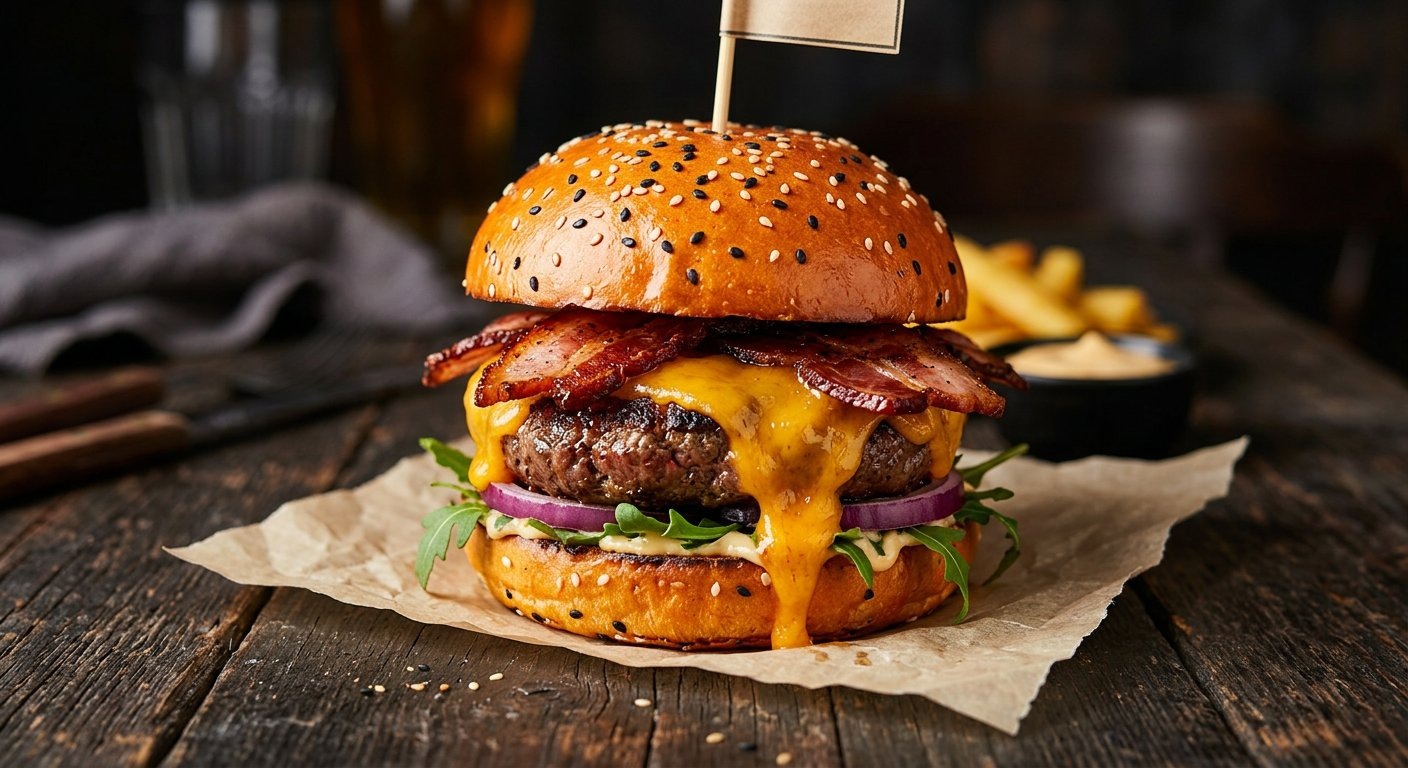
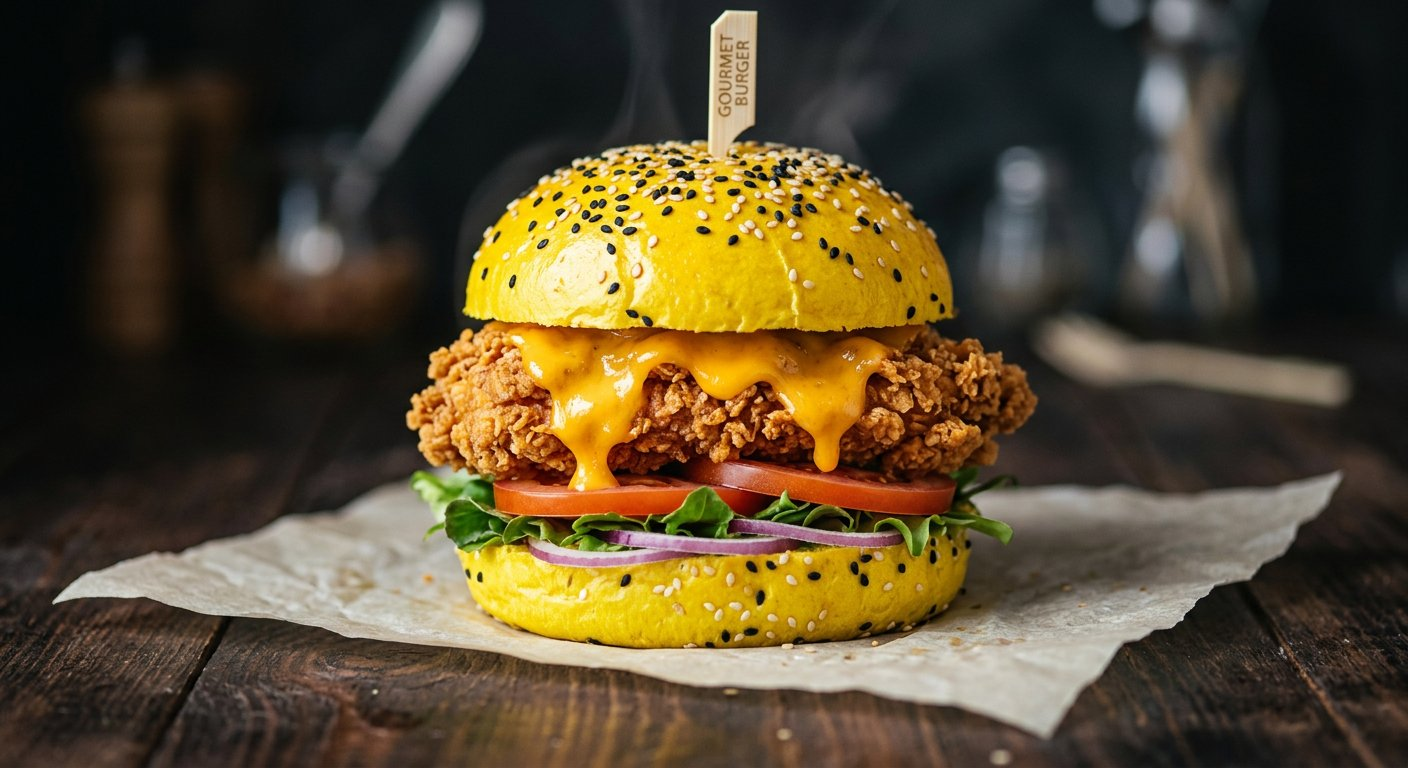
fix(admin): corrige tela preta /admin - AdminApp wrapper completo + ADMIN_NAV, fix AdminCashRegister stray const, fix AdminApp.jsx modular imports, p2/p3 pão amarelo gergelim preto

diff --git a/src/components/admin/AdminApp.jsx b/src/components/admin/AdminApp.jsx
@@ -1,20 +1,82 @@
-import React, { useState, useEffect, useMemo, useRef } from "react";
-import { C, font, STATUS, FLOW, CHANNELS } from "../../constants/theme.js";
-import { brl, elapsed, fmtDT, fmtShort, toLocalInput, fromLocalInput, lastSeen, esc, channelName } from "../../utils/format.js";
-import { api } from "../../utils/api.js";
-import { printHTML, printKitchen, printExpedition, printReceipt, printLabel, printCashSummaryReceipt, printDriverSettlementReceipt, buildGoogleMapsMultiStopUrl, downloadCSV, printReport } from "../../utils/print.js";
-import { getOrderModality } from "../../utils/orderModality.js";
-import { buildMesaIndex, getOrderTableNumber } from "../../utils/mesa.js";
-import { Card, Btn, KPI, BarChart, Donut, StatusPill, SyncBadge, ChannelPill, Badge, Logo, SmartImg } from "../ui/index.jsx";
+import React, { useState } from "react";
+import { C, font } from "../../constants/theme.js";
+import { Card, Btn, Logo } from "../ui/index.jsx";
+import AdminDashboard from "./AdminDashboard.jsx";
+import AdminCashRegister from "./AdminCashRegister.jsx";
+import AdminProducts from "./AdminProducts.jsx";
+import AdminCustomers from "./AdminCustomers.jsx";
+import AdminFinance from "./AdminFinance.jsx";
+import AdminReports from "./AdminReports.jsx";
+import AdminPromos from "./AdminPromos.jsx";
+import AdminCategories from "./AdminCategories.jsx";
+import AdminInventory from "./AdminInventory.jsx";
+import AdminIntegrations from "./AdminIntegrations.jsx";
+import AdminPaymentsCard from "./AdminPaymentsCard.jsx";
+import AdminPrinterCard from "./AdminPrinterCard.jsx";
+import AdminStoreCard from "./AdminStoreCard.jsx";
+import AdminModalitiesCard from "./AdminModalitiesCard.jsx";
 import ServiceChargeCard from "./ServiceChargeCard.jsx";
-import WaiterReport from "./WaiterReport.jsx";
-import LowStockAlerts from "./LowStockAlerts.jsx";
+import AdminTables from "../tables/AdminTables.jsx";
+
+// Fallback components for those not yet modularized
+function AdminOrdersFallback({ store, now }) {
+  const { orders = [] } = store;
+  return (
+    <div className="space-y-3">
+      <div style={{ color: "#8a8a8a", fontSize: 12 }}>{orders.length} pedidos no total</div>
+      <div className="grid md:grid-cols-2 xl:grid-cols-3 gap-3">
+        {orders.slice(0, 20).map((o) => (
+          <Card key={o.id} className="p-3">
+            <div style={{ color: C.white, fontWeight: 800, fontSize: 13 }}>#{o.code} · {o.status}</div>
+            <div style={{ color: "#8a8a8a", fontSize: 11 }}>{o.customer?.name} · {o.total}</div>
+          </Card>
+        ))}
+      </div>
+    </div>
+  );
+}
+
+function AdminUsersFallback({ store }) {
+  return <div style={{ color: "#8a8a8a", fontSize: 12 }}>Usuários gerenciados no App.jsx principal.</div>;
+}
+
+const ADMIN_NAV = [
+  { id: "dashboard", label: "Dashboard", icon: "📊" },
+  { id: "pedidos", label: "Pedidos", icon: "🧾" },
+  { id: "caixa", label: "Caixa / PDV", icon: "💵" },
+  { id: "mesas", label: "Mesas / Salão", icon: "🍽" },
+  { id: "produtos", label: "Produtos", icon: "🍔" },
+  { id: "categorias", label: "Categorias", icon: "📂" },
+  { id: "clientes", label: "Clientes", icon: "👥" },
+  { id: "promos", label: "Promoções", icon: "🏷" },
+  { id: "estoque", label: "Estoque", icon: "📦" },
+  { id: "financeiro", label: "Financeiro", icon: "💰" },
+  { id: "relatorios", label: "Relatórios", icon: "📈" },
+  { id: "integracoes", label: "Integrações", icon: "🔌" },
+  { id: "config", label: "Configurações", icon: "⚙" },
+];
+
+function AdminSettingsModular({ store, now }) {
+  return (
+    <div className="grid lg:grid-cols-2 gap-3">
+      <AdminPaymentsCard store={store} />
+      <AdminPrinterCard store={store} />
+      <AdminStoreCard store={store} />
+      <AdminModalitiesCard store={store} />
+      <ServiceChargeCard store={store} />
+      <Card className="p-4 lg:col-span-2">
+        <div style={{ color: C.white, fontWeight: 900, fontSize: 14 }}>Configurações gerais</div>
+        <div style={{ color: "#8a8a8a", fontSize: 12, marginTop: 4 }}>Gerenciamento completo no App principal.</div>
+      </Card>
+    </div>
+  );
+}
 
 function AdminApp({ store, now }) {
   const [sec, setSec] = useState("dashboard");
   const [menu, setMenu] = useState(false);
   const navItems = ADMIN_NAV.filter((n) => n.id !== "mesas" || store.settings?.tablesEnabled);
-  const title = navItems.find((n) => n.id === sec)?.label || ADMIN_NAV.find((n) => n.id === sec)?.label;
+  const title = navItems.find((n) => n.id === sec)?.label || ADMIN_NAV.find((n) => n.id === sec)?.label || "Admin";
 
   return (
     <div className="flex" style={{ background: C.black, minHeight: "100%" }}>
@@ -68,20 +130,6 @@ function AdminApp({ store, now }) {
               {title.toUpperCase()}
             </h2>
           </div>
-          <div className="flex items-center gap-2">
-            <Btn small variant="dark" onClick={() => store.injectExternal("IFOOD")}>+ Pedido iFood</Btn>
-            <div className="relative">
-              <span style={{ fontSize: 19 }}>🔔</span>
-              {store.notifications.length > 0 && (
-                <span
-                  className="absolute flex items-center justify-center"
-                  style={{ top: -4, right: -6, width: 16, height: 16, borderRadius: 99, background: C.orange, color: C.black, fontSize: 9.5, fontWeight: 900 }}
-                >
-                  {store.notifications.length}
-                </span>
-              )}
-            </div>
-          </div>
         </div>
 
         {menu && (
@@ -100,7 +148,7 @@ function AdminApp({ store, now }) {
         )}
 
         {sec === "dashboard" && <AdminDashboard store={store} now={now} setSec={setSec} />}
-        {sec === "pedidos" && <AdminOrders store={store} now={now} />}
+        {sec === "pedidos" && <AdminOrdersFallback store={store} now={now} />}
         {sec === "caixa" && <AdminCashRegister store={store} now={now} />}
         {sec === "mesas" && (
           store.settings?.tablesEnabled ? (
@@ -124,14 +172,10 @@ function AdminApp({ store, now }) {
         {sec === "financeiro" && <AdminFinance store={store} now={now} />}
         {sec === "relatorios" && <AdminReports store={store} now={now} />}
         {sec === "integracoes" && <AdminIntegrations store={store} />}
-        {sec === "config" && <AdminSettings store={store} now={now} />}
+        {sec === "config" && <AdminSettingsModular store={store} now={now} />}
       </main>
     </div>
   );
 }
-// ============================================================
-// COZINHA — KDS
-// ============================================================
-
 
 export default AdminApp;

diff --git a/src/App.jsx b/src/App.jsx
@@ -3047,6 +3047,54 @@ function AdminPaymentsCard({ store }) {
   );
 }
 
+function AdminPrinterCard({ store }) {
+  return (
+    <React.Suspense fallback={<div style={{ padding: 20, textAlign: 'center', color: '#888' }}>Carregando AdminPrinterCard...</div>}>
+      <AdminPrinterCardModular store={store}  />
+    </React.Suspense>
+  );
+}
+
+function AdminStoreCard({ store }) {
+  return (
+    <React.Suspense fallback={<div style={{ padding: 20, textAlign: 'center', color: '#888' }}>Carregando AdminStoreCard...</div>}>
+      <AdminStoreCardModular store={store}  />
+    </React.Suspense>
+  );
+}
+
+function AdminModalitiesCard({ store }) {
+  return (
+    <React.Suspense fallback={<div style={{ padding: 20, textAlign: 'center', color: '#888' }}>Carregando AdminModalitiesCard...</div>}>
+      <AdminModalitiesCardModular store={store}  />
+    </React.Suspense>
+  );
+}
+
+function AdminCategories({ store }) {
+  return (
+    <React.Suspense fallback={<div style={{ padding: 20, textAlign: 'center', color: '#888' }}>Carregando AdminCategories...</div>}>
+      <AdminCategoriesModular store={store}  />
+    </React.Suspense>
+  );
+}
+
+function AdminInventory({ store }) {
+  return (
+    <React.Suspense fallback={<div style={{ padding: 20, textAlign: 'center', color: '#888' }}>Carregando AdminInventory...</div>}>
+      <AdminInventoryModular store={store}  />
+    </React.Suspense>
+  );
+}
+
+function AdminIntegrations({ store }) {
+  return (
+    <React.Suspense fallback={<div style={{ padding: 20, textAlign: 'center', color: '#888' }}>Carregando AdminIntegrations...</div>}>
+      <AdminIntegrationsModular store={store}  />
+    </React.Suspense>
+  );
+}
+
 function AdminSettings({ store, now }) {
   return (
     <div className="grid lg:grid-cols-2 gap-3">
@@ -3137,6 +3185,96 @@ function AdminCashRegister({ store, now }) {
     <React.Suspense fallback={<div style={{ padding: 20, textAlign: 'center', color: '#888' }}>Carregando AdminCashRegister...</div>}>
       <AdminCashRegisterModular store={store} now={now}  />
     </React.Suspense>
+  );
+}
+
+const ADMIN_NAV = [
+  { id: "dashboard", label: "Dashboard", icon: "📊" },
+  { id: "pedidos", label: "Pedidos", icon: "🧾" },
+  { id: "caixa", label: "Caixa / PDV", icon: "💵" },
+  { id: "mesas", label: "Mesas / Salão", icon: "🍽" },
+  { id: "produtos", label: "Produtos", icon: "🍔" },
+  { id: "categorias", label: "Categorias", icon: "📂" },
+  { id: "clientes", label: "Clientes", icon: "👥" },
+  { id: "promos", label: "Promoções", icon: "🏷" },
+  { id: "estoque", label: "Estoque", icon: "📦" },
+  { id: "financeiro", label: "Financeiro", icon: "💰" },
+  { id: "relatorios", label: "Relatórios", icon: "📈" },
+  { id: "integracoes", label: "Integrações", icon: "🔌" },
+  { id: "config", label: "Configurações", icon: "⚙" },
+];
+
+function AdminApp({ store, now }) {
+  const [sec, setSec] = useState("dashboard");
+  const render = () => {
+    if (sec === "dashboard") return <AdminDashboard store={store} now={now} setSec={setSec} />;
+    if (sec === "pedidos") return <AdminOrders store={store} now={now} />;
+    if (sec === "caixa") return <AdminCashRegister store={store} now={now} />;
+    if (sec === "mesas") return <AdminTables store={store} now={now} />;
+    if (sec === "produtos") return <AdminProducts store={store} />;
+    if (sec === "categorias") return <AdminCategories store={store} />;
+    if (sec === "clientes") return <AdminCustomers store={store} />;
+    if (sec === "promos") return <AdminPromos store={store} now={now} />;
+    if (sec === "estoque") return <AdminInventory store={store} />;
+    if (sec === "financeiro") return <AdminFinance store={store} now={now} />;
+    if (sec === "relatorios") return <AdminReports store={store} now={now} />;
+    if (sec === "integracoes") return <AdminIntegrations store={store} />;
+    if (sec === "config") return <AdminSettings store={store} now={now} />;
+    return null;
+  };
+  return (
+    <div className="min-h-screen flex flex-col lg:flex-row" style={{ background: C.black }}>
+      <div className="w-full lg:w-64 shrink-0 p-3 lg:sticky lg:top-0 lg:h-screen lg:overflow-y-auto" style={{ background: C.gray900, borderRight: `1px solid ${C.gray800}` }}>
+        <div className="flex items-center gap-2 mb-4">
+          <Logo size={36} />
+          <div>
+            <div style={{ fontFamily: font.display, fontStyle: "italic", fontSize: 14, color: C.white }}>TÔ NO SARRO!</div>
+            <div style={{ color: "#8a8a8a", fontSize: 10 }}>ADMIN · {store.settings?.storeName || ""}</div>
+          </div>
+        </div>
+        <div className="flex lg:flex-col gap-1.5 overflow-x-auto lg:overflow-visible pb-1">
+          {ADMIN_NAV.map((n) => {
+            const on = sec === n.id;
+            return (
+              <button
+                key={n.id}
+                onClick={() => setSec(n.id)}
+                className="shrink-0 flex items-center gap-2 rounded-xl px-3 py-2.5 font-bold text-left"
+                style={{
+                  background: on ? `linear-gradient(100deg, ${C.orange}, ${C.yellow})` : C.gray850,
+                  color: on ? C.black : "#c0c0c0",
+                  border: `1px solid ${on ? "transparent" : C.gray800}`,
+                  fontSize: 12.5,
+                  whiteSpace: "nowrap",
+                }}
+              >
+                <span>{n.icon}</span> {n.label}
+              </button>
+            );
+          })}
+        </div>
+        <div className="mt-4 pt-4" style={{ borderTop: `1px solid ${C.gray800}` }}>
+          <div className="flex items-center justify-between">
+            <span style={{ color: "#8a8a8a", fontSize: 11 }}>Status da loja</span>
+            <MiniToggle on={store.settings?.open} onClick={() => store.setOpen(!store.settings?.open)} />
+          </div>
+          <div style={{ color: store.settings?.open ? C.green : C.red, fontSize: 11, fontWeight: 800, marginTop: 4 }}>
+            {store.settings?.open ? "Aberta" : "Fechada"}
+          </div>
+        </div>
+      </div>
+      <div className="flex-1 p-3 sm:p-4 max-w-[1400px] w-full mx-auto">
+        <div className="flex items-center justify-between mb-4 gap-2">
+          <h2 style={{ fontFamily: font.display, fontStyle: "italic", fontSize: 22, color: C.white }}>
+            {ADMIN_NAV.find((n) => n.id === sec)?.label?.toUpperCase()}
+          </h2>
+          <div className="flex items-center gap-2">
+            <SyncBadge store={store} now={now} />
+          </div>
+        </div>
+        {render()}
+      </div>
+    </div>
   );
 }
 

diff --git a/src/components/admin/AdminCashRegister.jsx b/src/components/admin/AdminCashRegister.jsx
@@ -784,21 +784,4 @@ function AdminCashRegister({ store, now }) {
   );
 }
 
-const ADMIN_NAV = [
-  { id: "dashboard", icon: "📊", label: "Dashboard" },
-  { id: "pedidos", icon: "🧾", label: "Pedidos" },
-  { id: "caixa", icon: "💵", label: "Frente de Caixa" },
-  { id: "mesas", icon: "🍽", label: "Mesas / Salão" },
-  { id: "produtos", icon: "🍔", label: "Cardápio" },
-  { id: "categorias", icon: "🗂", label: "Categorias" },
-  { id: "clientes", icon: "👥", label: "Clientes" },
-  { id: "promos", icon: "🎟", label: "Promoções" },
-  { id: "estoque", icon: "📦", label: "Estoque" },
-  { id: "financeiro", icon: "💰", label: "Financeiro" },
-  { id: "relatorios", icon: "📈", label: "Relatórios" },
-  { id: "integracoes", icon: "🔌", label: "Integrações" },
-  { id: "config", icon: "⚙", label: "Configurações" },
-];
-
-
 export default AdminCashRegister;
